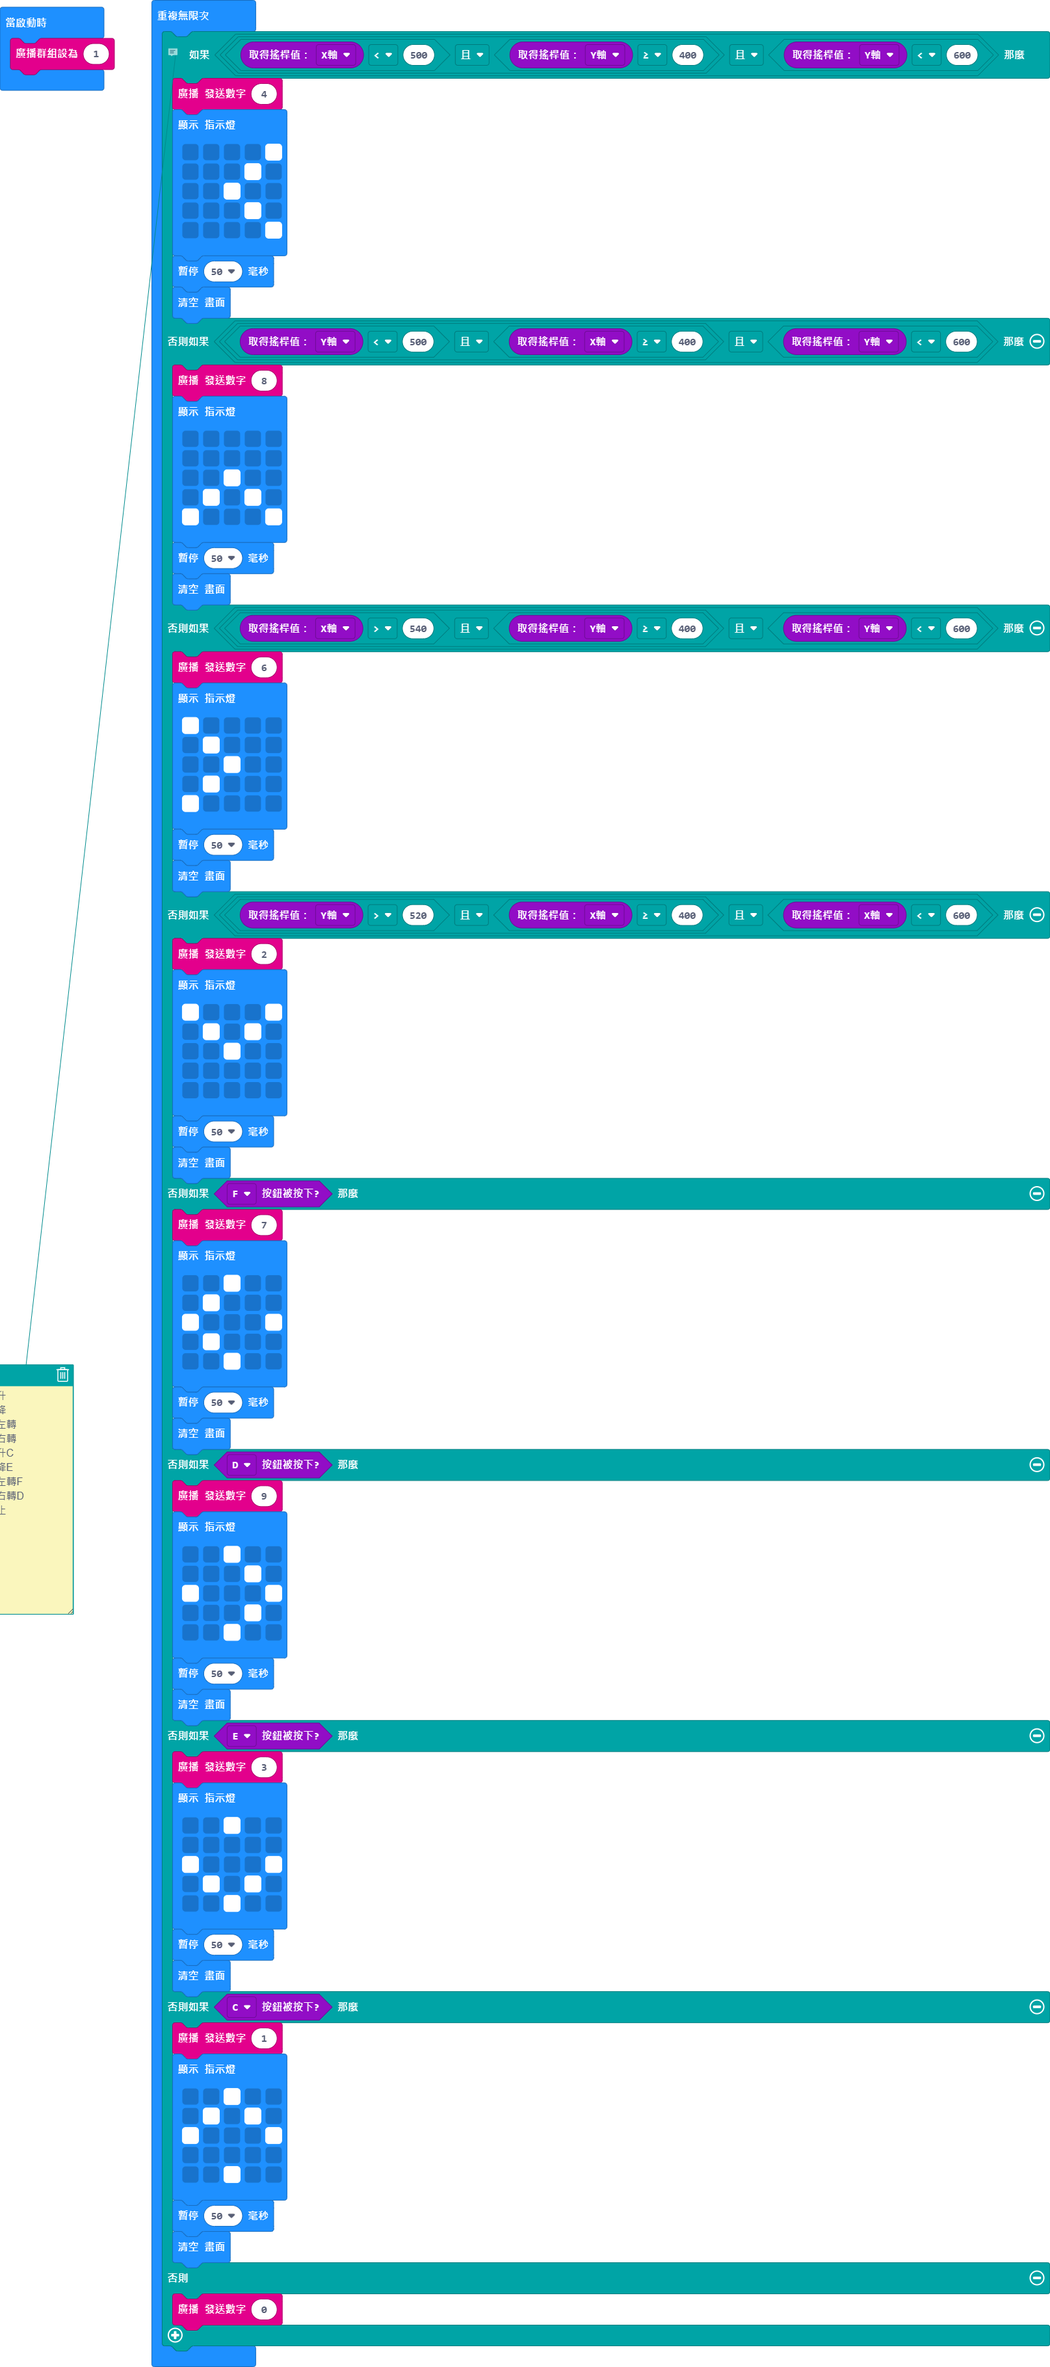
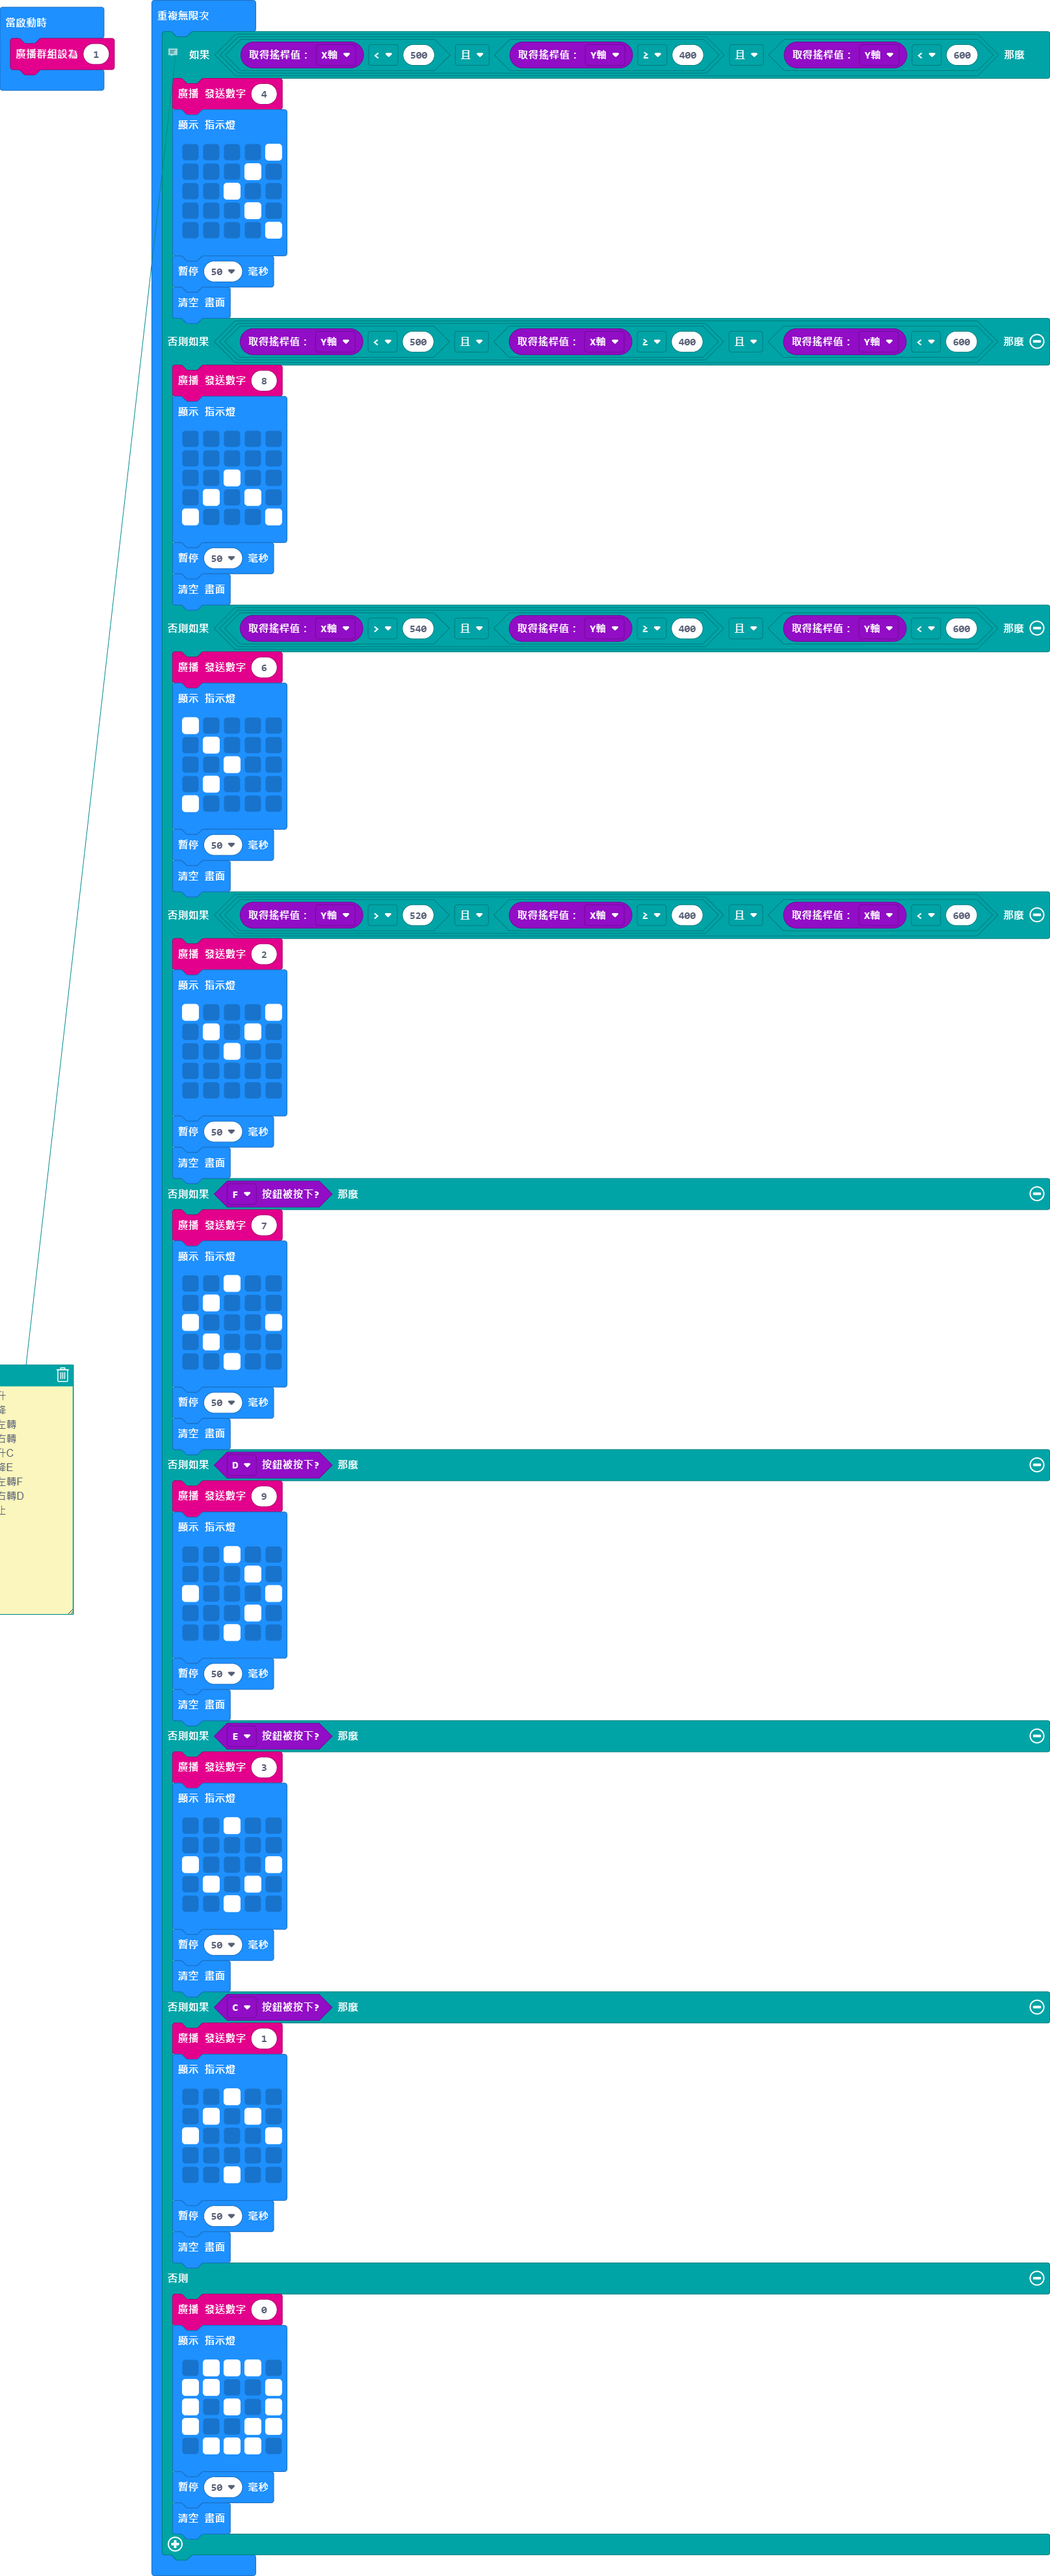
指示燈停止增加

Changed region(s): [[0.1548, 0.0, 1.0, 0.9934], [0.0, 0.5277, 0.0929, 0.683], [0.0, 0.0, 0.1238, 0.0621]]

diff --git a/main.ts b/main.ts
@@ -100,5 +100,14 @@ basic.forever(function () {
         basic.clearScreen()
     } else {
         radio.sendNumber(0)
+        basic.showLeds(`
+            . # # # .
+            # # . . #
+            # . # . #
+            # . . # #
+            . # # # .
+            `)
+        basic.pause(50)
+        basic.clearScreen()
     }
 })
